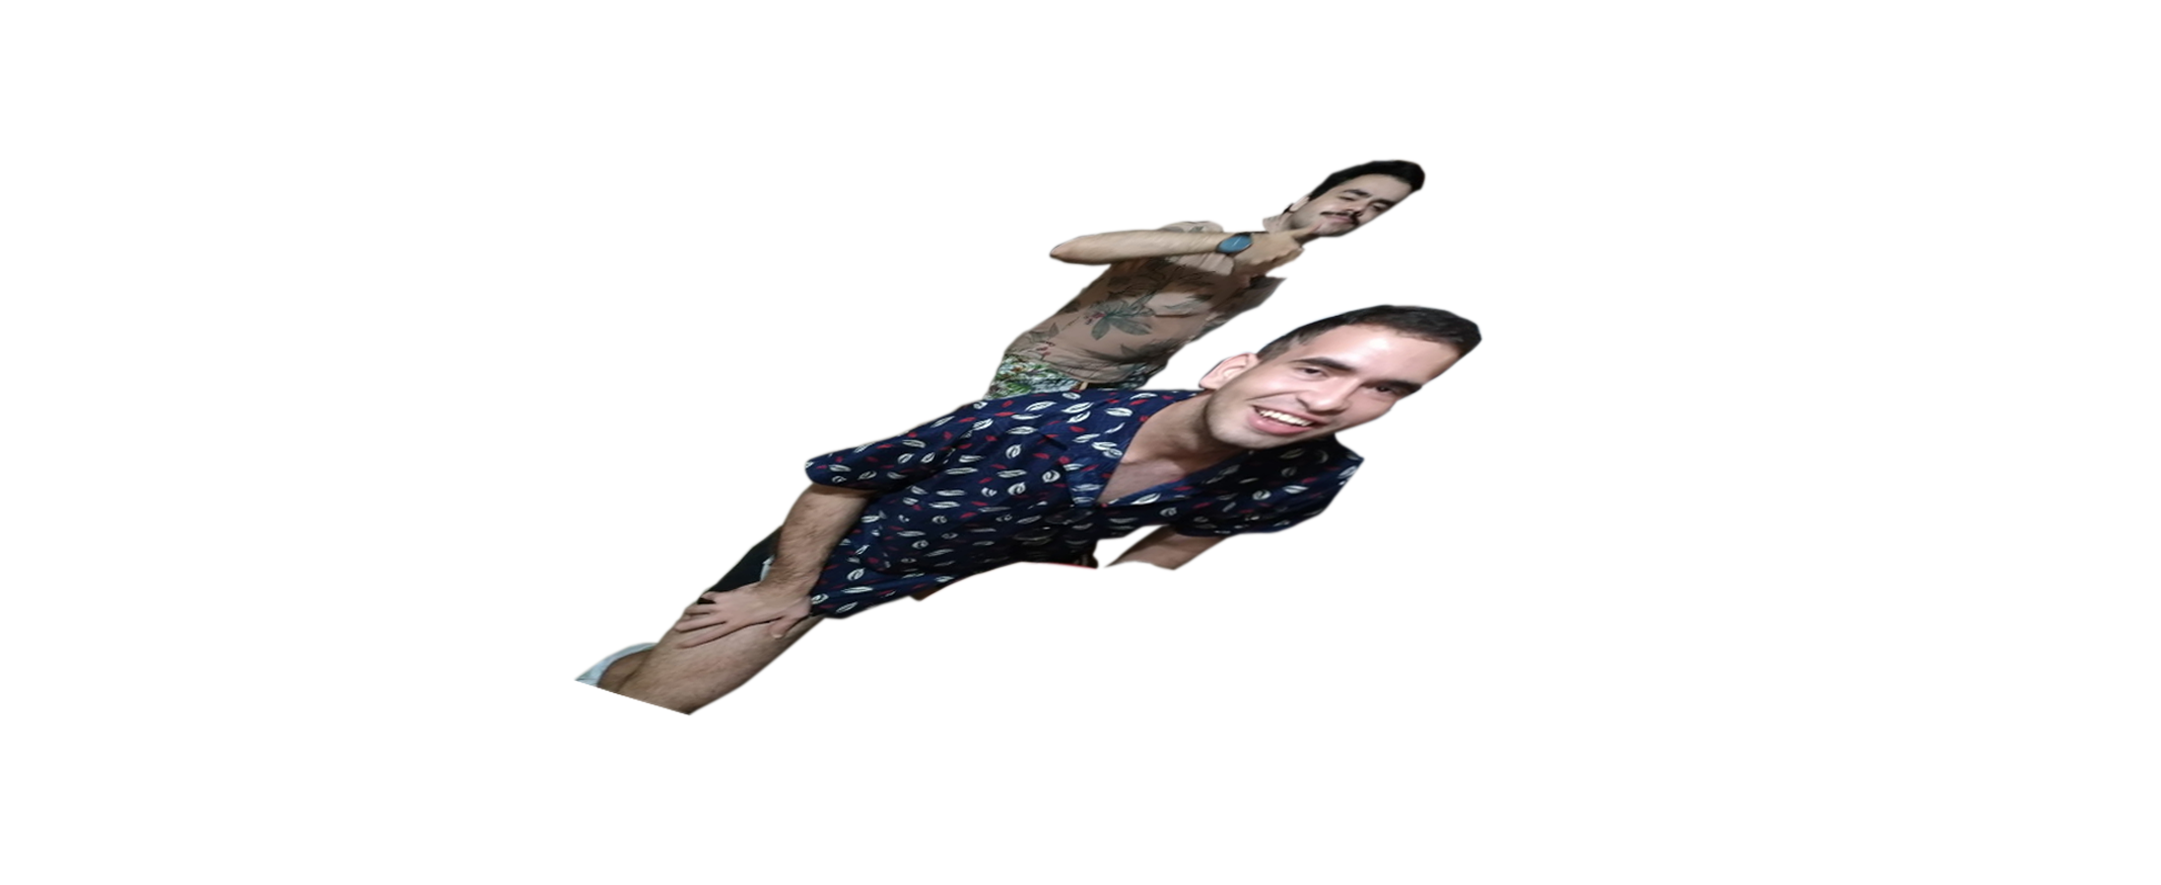
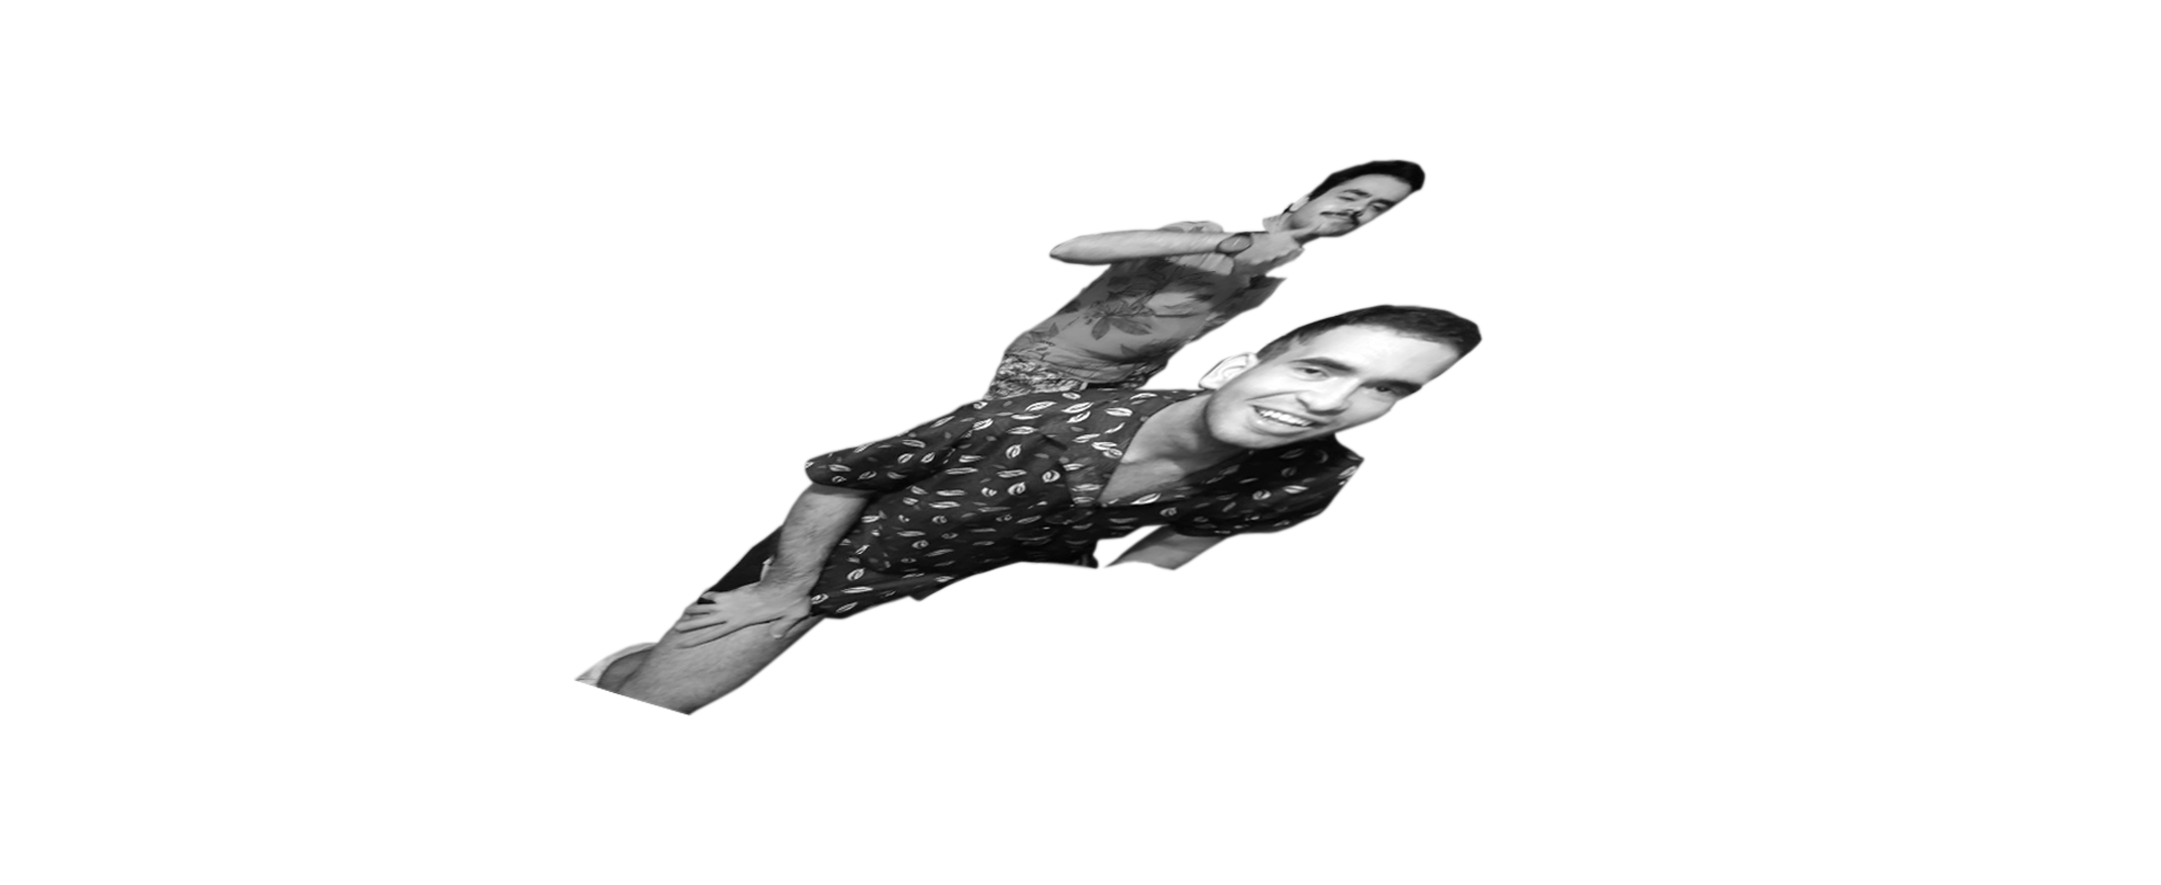
fix: changed to opacity and fix total time

Changed region(s): [[0.279, 0.1831, 0.6821, 0.8237], [0.5271, 0.6102, 0.5581, 0.6407]]

diff --git a/pages/index.tsx b/pages/index.tsx
@@ -7,7 +7,7 @@ export default function Home() {
     const initialDate = new Date(`2021-08-13T12:00:00.000Z`).getTime();
     const now = new Date().getTime();
     var dif = Math.floor((date.getTime() - now) / 1000);
-    const totalTime = dif;
+    const totalTime = (finalDate.getTime() - initialDate) / 1000;
     const elapsedTime = Math.floor((now - initialDate) / 1000);
     const days = Math.floor(dif / 86400);
     dif = dif % 86400;
@@ -17,7 +17,10 @@ export default function Home() {
     dif = dif % 60;
     const seconds = dif;
     const countDownText = dif >= 0 ? `${days.toString().padStart(2, '0')}:${hours.toString().padStart(2, '0')}:${minutes.toString().padStart(2, '0')}:${seconds.toString().padStart(2, '0')}` : `00:00:00:00`
-    const incrementalSaturation = elapsedTime <= totalTime ? 100 - ((elapsedTime / totalTime) * 100) : 0;
+    const incrementalSaturation = elapsedTime <= totalTime ? ((elapsedTime / totalTime) * 100) : 0;
+
+    console.log(elapsedTime)
+    console.log(totalTime)
 
     return {
               countDownText,
@@ -26,7 +29,7 @@ export default function Home() {
   }
 
   const finalDate = new Date('2021-09-03T20:00:00.000Z')
-  //const finalDate = new Date('2021-08-21T20:00:00.000Z')
+  //const finalDate = new Date('2021-08-18T20:00:00.000Z')
   const { countDownText, incrementalSaturation } = runCountdown(finalDate);
   const [countDown, setCountDown] = useState(countDownText);
   const [saturation, setSaturation] = useState(incrementalSaturation);
@@ -36,6 +39,7 @@ export default function Home() {
     setTimeout(() => {
       const { countDownText, incrementalSaturation } = runCountdown(finalDate);
       setCountDown(countDownText)
+      console.log(saturation)
       setSaturation(incrementalSaturation)
       if (countDownText === `00:00:00:00`) {
         if(audioPlayer) audioPlayer.current.play();
@@ -66,13 +70,13 @@ export default function Home() {
            <div className={styles['photo-grid']}>
               <div className={styles.layers}>
                 <img className={styles.backphoto} src="images/photo.png" alt="" />
-                <img style={{ filter: `saturate(${saturation}%)` }} className={styles.jairo} src="images/jairo.png" alt="" />
-                <img style={{ filter: `saturate(${saturation}%)` }} className={styles.ze} src="images/ze.png" alt="" />
+                <img style={{ opacity: `${saturation}%` }} className={styles.jairo} src="images/jairo.png" alt="" />
+                <img style={{ opacity: `${saturation}%` }} className={styles.ze} src="images/ze.png" alt="" />
               </div>
 
               <div className={styles.layers}>
                 <img className={styles.backphoto2} src="images/photo2.png" alt="" />
-                <img style={{ filter: `saturate(${saturation}%)` }} className={styles.alef} src="images/alef.png" alt="" />
+                <img style={{ opacity: `${saturation}%` }} className={styles.alef} src="images/alef.png" alt="" />
               </div>
             </div>
             <audio src="assets/Mariarita.mp3" id="my_audio" loop={true} ref={audioPlayer}></audio>
